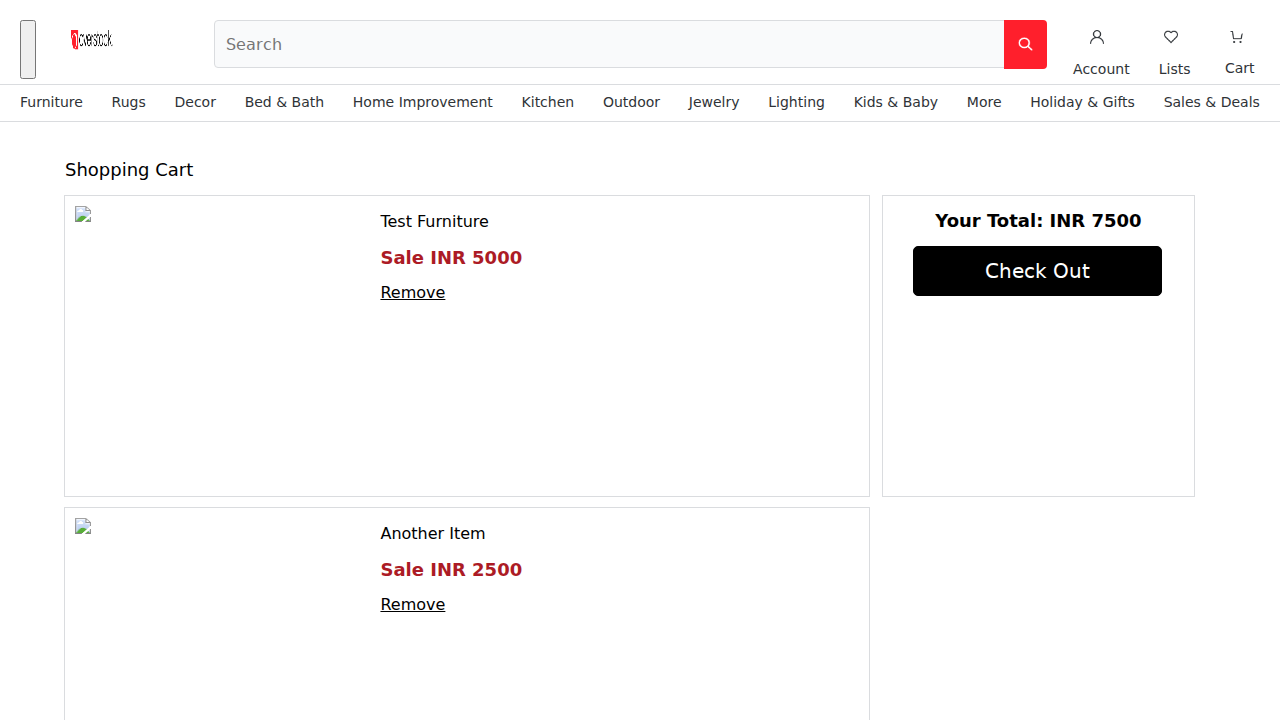
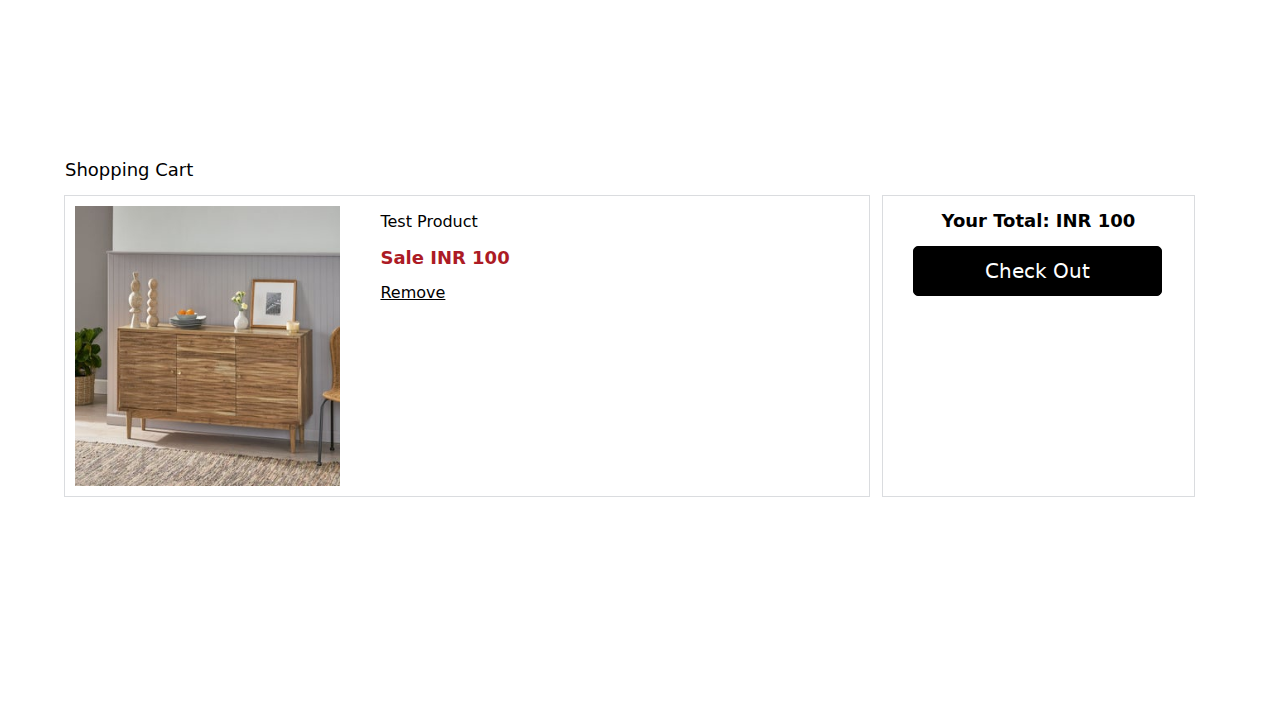
Refactor "Remove" action in cart to use accessible buttons

diff --git a/styles/cart.css b/styles/cart.css
@@ -50,14 +50,23 @@
         width: 33%;
         margin: 10px;
     }
-    #remove
+    .remove-btn
     {
         font-size: 16px;
-        margin-left:30px;
-    }
-    #remove:hover
-    {
+        margin-left: 30px;
+        background: none;
+        border: none;
+        padding: 0;
+        text-decoration: underline;
+        color: inherit;
+        font-family: inherit;
         cursor: pointer;
+    }
+    .remove-btn:focus-visible
+    {
+        outline: 2px solid rgb(47, 51, 55);
+        outline-offset: 2px;
+        text-decoration: none;
     }
     #showTotal{
        text-align: center;

diff --git a/scripts/cart.js b/scripts/cart.js
@@ -26,9 +26,10 @@ function display(cart)
         price.style.marginLeft="30px"
 
 
-        let remove = document.createElement("u");
+        let remove = document.createElement("button");
         remove.innerText="Remove";
-        remove.id = "remove";
+        remove.className = "remove-btn";
+        remove.setAttribute("aria-label", `Remove ${el.name} from cart`);
         remove.addEventListener("click",function()
         {
             removeItem(index);

diff --git a/verification/verify_cart.py b/verification/verify_cart.py
@@ -1,49 +1,54 @@
 from playwright.sync_api import sync_playwright
 
-def verify_cart_optimization():
+def verify_cart_remove_button():
     with sync_playwright() as p:
-        browser = p.chromium.launch(headless=True)
+        browser = p.chromium.launch()
         page = browser.new_page()
 
-        # Mock localStorage data to ensure cart has items
-        page.add_init_script("""
-            localStorage.setItem('cartItems', JSON.stringify([
-                {
-                    name: 'Test Furniture',
-                    price: '5000',
-                    imageURL: 'https://via.placeholder.com/150'
-                },
-                {
-                    name: 'Another Item',
-                    price: '2500',
-                    imageURL: 'https://via.placeholder.com/150'
-                }
-            ]));
-        """)
+        # Mock localStorage with a sample cart item
+        cart_item = {
+            "imageURL": "https://i.postimg.cc/tg7z1Kz4/Warrenton-Boho-Handcrafted-2-Door-Acacia-Wood-Sideboard-by-Christopher-Knight-Home.jpg",
+            "name": "Test Product",
+            "price": "100"
+        }
 
-        # We need to serve the file. Since we don't have a server running, we can try to use file:// protocol if allowed,
-        # but modern browsers often block local file access for some operations.
-        # Ideally, we should start a simple python server.
+        # Go to cart page
+        # Using file protocol needs full path
+        import os
+        cwd = os.getcwd()
+        page.goto(f"file://{cwd}/cart.html")
 
-        # Let's assume we are running a server on port 3000
-        page.goto("http://localhost:3000/cart.html")
+        # Inject local storage
+        page.evaluate(f"""() => {{
+            localStorage.setItem("cartItems", JSON.stringify([{cart_item}]));
+        }}""")
 
-        # Wait for the elements to be rendered
-        page.wait_for_selector("#left > div")
+        # Reload to render content
+        page.reload()
 
-        # Take a screenshot
+        # Check for the remove button
+        # It should be a button now, not u tag
+        remove_btn = page.locator(".remove-btn")
+
+        # Wait for it to be visible
+        remove_btn.wait_for()
+
+        # Check attributes
+        tag_name = remove_btn.evaluate("el => el.tagName")
+        print(f"Tag name: {tag_name}")
+
+        aria_label = remove_btn.get_attribute("aria-label")
+        print(f"Aria label: {aria_label}")
+
+        # Check styles (optional, but good for verification)
+        bg = remove_btn.evaluate("el => window.getComputedStyle(el).background")
+        print(f"Background: {bg}")
+
+        # Screenshot
         page.screenshot(path="verification/cart_verification.png")
-
-        # Verify that 2 items are rendered
-        items = page.query_selector_all("#left > div")
-        print(f"Number of items rendered: {len(items)}")
-
-        if len(items) == 2:
-            print("Verification Successful: 2 items rendered correctly.")
-        else:
-            print(f"Verification Failed: Expected 2 items, found {len(items)}.")
+        print("Screenshot saved to verification/cart_verification.png")
 
         browser.close()
 
 if __name__ == "__main__":
-    verify_cart_optimization()
+    verify_cart_remove_button()
